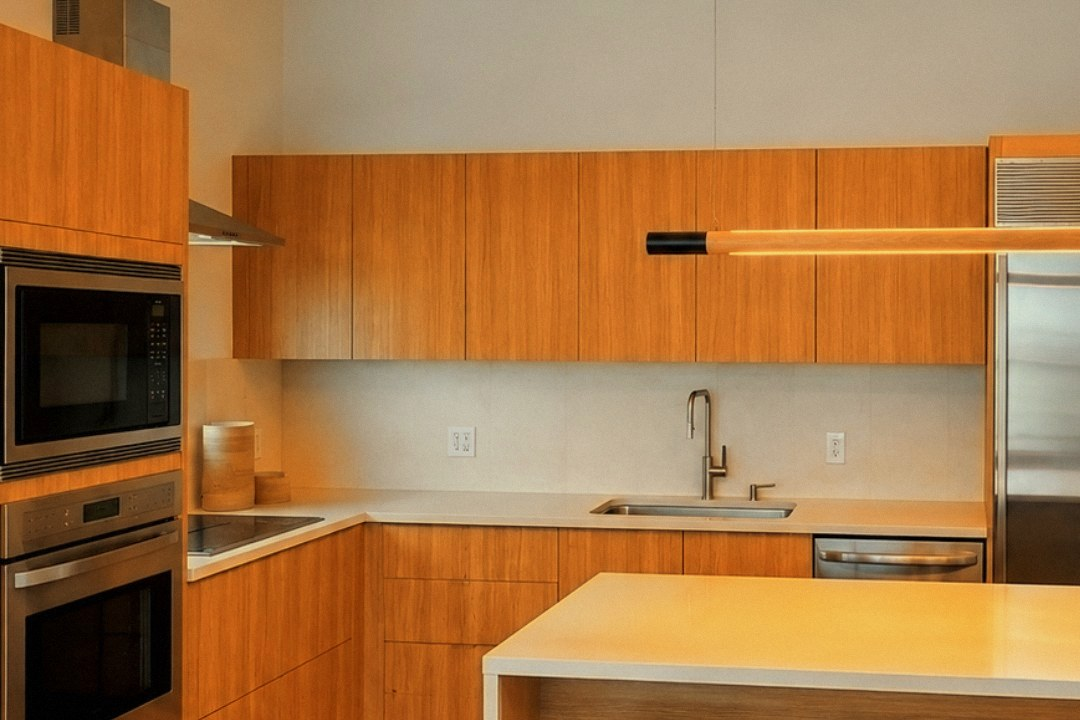
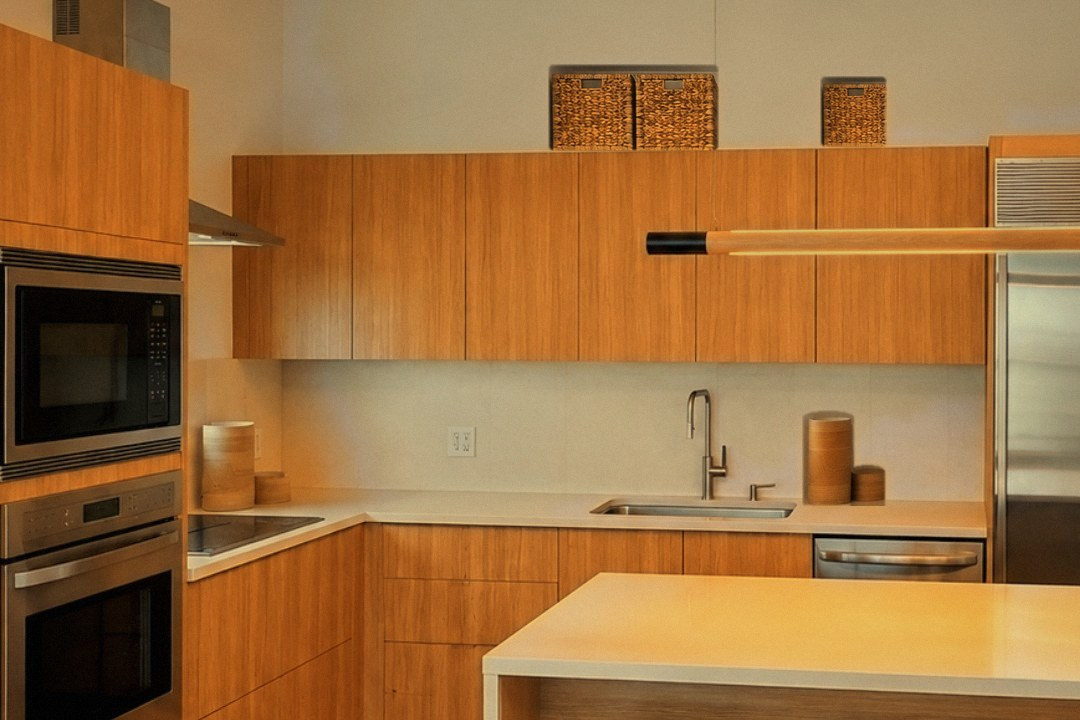
Fill gallery page with project photos; make compare 'before' a truly dated kitchen

diff --git a/public/scripts/renuva-finishes.js b/public/scripts/renuva-finishes.js
@@ -12,38 +12,89 @@
     { code: 'HG1630', name: 'Pure White Gloss', series: 'High Gloss Solid',
       desc: 'A crisp pure white tone with a deep, reflective high-gloss finish. Designed to elevate modern kitchens, wardrobe fronts, and feature panels.',
       url: 'https://surfacesupply.com/products/renuva-architectural-film-high-gloss-solid-hg1630' },
+    { code: 'MT1701', name: 'Pure White Matte', series: 'Matte Solid',
+      desc: 'A bright pure white tone with a smooth, even matte surface. Designed to refresh cabinets, doors, panels, and built-ins in clean modern spaces.',
+      url: 'https://surfacesupply.com/products/renuva-architectural-film-matte-solid-mt1701' },
     { code: 'RW1418', name: 'Bright White Painted Wood', series: 'Painted Wood',
       desc: 'A bright white tone with dense, fine straight-grain texture. Designed to elevate kitchens, cabinet fronts, and doors in crisp modern spaces.',
       url: 'https://surfacesupply.com/products/renuva-architectural-film-painted-wood-lw1418' },
+    { code: 'FP1840', name: 'White Linen Weave', series: 'Fabric',
+      desc: 'A crisp white tone with fine linen-weave texture at thread level. Designed to soften wall panels, wardrobe fronts, and headboard surrounds.',
+      url: 'https://surfacesupply.com/products/renuva-architectural-film-fabric-fp1840' },
     { code: 'ST1107', name: 'Carrara White Marble', series: 'Marble',
       desc: 'A clean white tone with sparse, confident grey veining in the classic Carrara manner. Designed to elevate feature walls, columns, and furniture in bright, classic spaces.',
       url: 'https://surfacesupply.com/products/renuva-architectural-film-marble-st1107' },
+    { code: 'ST1109', name: 'Cloud White Marble', series: 'Marble',
+      desc: 'A bright white tone with dense, feathered grey veining and a polished-marble depth. Designed to bring a polished stone look to feature walls, vanity surrounds, and furniture.',
+      url: 'https://surfacesupply.com/products/renuva-architectural-film-marble-st1109' },
+    { code: 'MT1703', name: 'Soft White Matte', series: 'Matte Solid',
+      desc: 'A softly warm white tone with a smooth, even matte surface. Designed to complement cabinets, wardrobes, and doors in soft neutral interiors.',
+      url: 'https://surfacesupply.com/products/renuva-architectural-film-matte-solid-mt1703' },
+    { code: 'RW1412', name: 'Warm White Painted Wood', series: 'Painted Wood',
+      desc: 'A warm white tone with visible brushstroke grain and a hand-painted character. Designed to refresh cabinet fronts, wardrobes, doors, and trim in classic interiors.',
+      url: 'https://surfacesupply.com/products/renuva-architectural-film-painted-wood-lw1412' },
+    { code: 'HG1632', name: 'Ivory Gloss', series: 'High Gloss Solid',
+      desc: 'A warm ivory tone with a deep, reflective high-gloss finish. Designed to complement kitchens and wardrobes in warm contemporary interiors.',
+      url: 'https://surfacesupply.com/products/renuva-architectural-film-high-gloss-solid-hg1632' },
+    { code: 'MT1705', name: 'Ivory Matte', series: 'Matte Solid',
+      desc: 'A warm ivory tone with a smooth, even matte surface. Designed to refresh cabinet fronts, doors, and built-ins in warm neutral interiors.',
+      url: 'https://surfacesupply.com/products/renuva-architectural-film-matte-solid-mt1705' },
+    { code: 'RW1414', name: 'Cream Painted Wood', series: 'Painted Wood',
+      desc: 'A soft cream tone with subtle raised grain that reads as freshly lacquered joinery. Designed to complement kitchens, wardrobes, and doors in warm traditional spaces.',
+      url: 'https://surfacesupply.com/products/renuva-architectural-film-painted-wood-lw1414' },
+    { code: 'ST1105', name: 'Cream Onyx Marble', series: 'Marble',
+      desc: 'A warm cream tone with soft, cloud-like onyx veining and the gentle shifts of honed stone. Designed to complement feature walls, reception desks, and furniture in calm, warm interiors.',
+      url: 'https://surfacesupply.com/products/renuva-architectural-film-marble-st1105' },
     { code: 'PW1512', name: 'Cream Ash', series: 'Premium Wood',
       desc: 'A pale cream ash tone with a subtle, even figure and a light Scandinavian feel. Designed to refresh doors, cabinetry, and furniture in airy, minimal interiors.',
       url: 'https://surfacesupply.com/products/renuva-architectural-film-premium-wood-pw1512' },
     { code: 'ME1213', name: 'Brushed Champagne Metal', series: 'Metal',
       desc: 'A warm champagne-silver tone with fine hairline brushing running the length of the film. Designed to elevate doors, panels, appliance surrounds, and trim in modern interiors.',
       url: 'https://surfacesupply.com/products/renuva-architectural-film-metal-me1213' },
+    { code: 'PW1514', name: 'Sand Oak', series: 'Premium Wood',
+      desc: 'A light sandy oak tone with a fine cathedral figure. Designed to complement doors, cabinet fronts, and furniture in relaxed natural interiors.',
+      url: 'https://surfacesupply.com/products/renuva-architectural-film-premium-wood-pw1514' },
     { code: 'PW1516', name: 'Honey Oak', series: 'Premium Wood',
       desc: 'A warm golden oak tone with an even, natural grain. Designed to elevate doors, millwork, and furniture in warm residential spaces.',
       url: 'https://surfacesupply.com/products/renuva-architectural-film-premium-wood-pw1516' },
+    { code: 'PW1518', name: 'Golden Rift Oak', series: 'Premium Wood',
+      desc: 'A medium golden oak tone with straight rift-sawn grain. Designed to complement doors, cabinetry, wall panels, and office furniture.',
+      url: 'https://surfacesupply.com/products/renuva-architectural-film-premium-wood-pw1518' },
+    { code: 'PW1520', name: 'Amber Oak', series: 'Premium Wood',
+      desc: 'A warm amber oak tone with soft cathedral figure and natural tonal movement. Designed to refresh doors, cabinet fronts, and millwork in traditional interiors.',
+      url: 'https://surfacesupply.com/products/renuva-architectural-film-premium-wood-pw1520' },
     { code: 'PW1522', name: 'Rosewood Mahogany', series: 'Premium Wood',
       desc: 'A deep reddish mahogany tone with straight, elegant grain. Designed to elevate executive furniture, doors, and panels in formal interiors.',
       url: 'https://surfacesupply.com/products/renuva-architectural-film-premium-wood-pw1522' },
     { code: 'MT1711', name: 'Charcoal Matte', series: 'Matte Solid',
       desc: 'A deep charcoal tone with a finely textured matte surface. Designed to anchor cabinets, doors, and feature panels in bold modern interiors.',
       url: 'https://surfacesupply.com/products/renuva-architectural-film-matte-solid-mt1711' },
+    { code: 'FP1842', name: 'Grey Linen Weave', series: 'Fabric',
+      desc: 'A mid-grey tone with linen-weave texture and natural vertical slub. Designed to complement wall panels, wardrobe fronts, and hospitality interiors.',
+      url: 'https://surfacesupply.com/products/renuva-architectural-film-fabric-fp1842' },
     { code: 'MTS1308', name: 'Slate Grey Soft Matte', series: 'Soft Matte',
       desc: 'An even mid-grey tone with a velvety soft-touch surface that diffuses light. Designed to bring a premium super-matte look to cabinet fronts, doors, and built-ins.',
       url: 'https://surfacesupply.com/products/renuva-architectural-film-soft-matte-mts1308' },
-    { code: 'FP1842', name: 'Grey Linen Weave', series: 'Fabric',
-      desc: 'A mid-grey tone with linen-weave texture and natural vertical slub. Designed to complement wall panels, wardrobe fronts, and hospitality interiors.',
-      url: 'https://surfacesupply.com/products/renuva-architectural-film-fabric-fp1842' }
+    { code: 'MT1709', name: 'Stone Grey Matte', series: 'Matte Solid',
+      desc: 'A balanced stone grey tone with a finely textured matte surface. Designed to elevate cabinet fronts, doors, and panels in modern grey palettes.',
+      url: 'https://surfacesupply.com/products/renuva-architectural-film-matte-solid-mt1709' },
+    { code: 'HG1634', name: 'Greige Gloss', series: 'High Gloss Solid',
+      desc: 'A sophisticated greige tone with a deep, reflective high-gloss finish. Designed to elevate feature panels, kitchens, and wardrobes in refined modern spaces.',
+      url: 'https://surfacesupply.com/products/renuva-architectural-film-high-gloss-solid-hg1634' },
+    { code: 'RW1416', name: 'Dove Grey Painted Wood', series: 'Painted Wood',
+      desc: 'A calm dove grey tone with fine painted-timber texture. Designed to refresh cabinet fronts, doors, and built-ins in contemporary interiors.',
+      url: 'https://surfacesupply.com/products/renuva-architectural-film-painted-wood-lw1416' },
+    { code: 'MT1707', name: 'Pale Grey Matte', series: 'Matte Solid',
+      desc: 'A pale grey tone with a finely textured matte surface. Designed to complement cabinets, doors, and panels in contemporary interiors.',
+      url: 'https://surfacesupply.com/products/renuva-architectural-film-matte-solid-mt1707' },
+    { code: 'ME1215', name: 'Pearl Silver Metal', series: 'Metal',
+      desc: 'A pearl-silver tone with a fine metallic stipple that catches light evenly. Designed to complement doors, panels, and fixtures in contemporary commercial spaces.',
+      url: 'https://surfacesupply.com/products/renuva-architectural-film-metal-me1215' }
   ];
 
-  /* open on the warm woods: Honey Oak centered, Champagne/Cream Ash to one
-     side, Rosewood to the other */
-  const HOME = 5;
+  /* open on the warm woods: Honey Oak centered, Sand Oak/Champagne to one
+     side, Golden Rift and Amber to the other */
+  const HOME = 15;
 
   const N = FINISHES.length;
   const section = document.getElementById('finishes');
